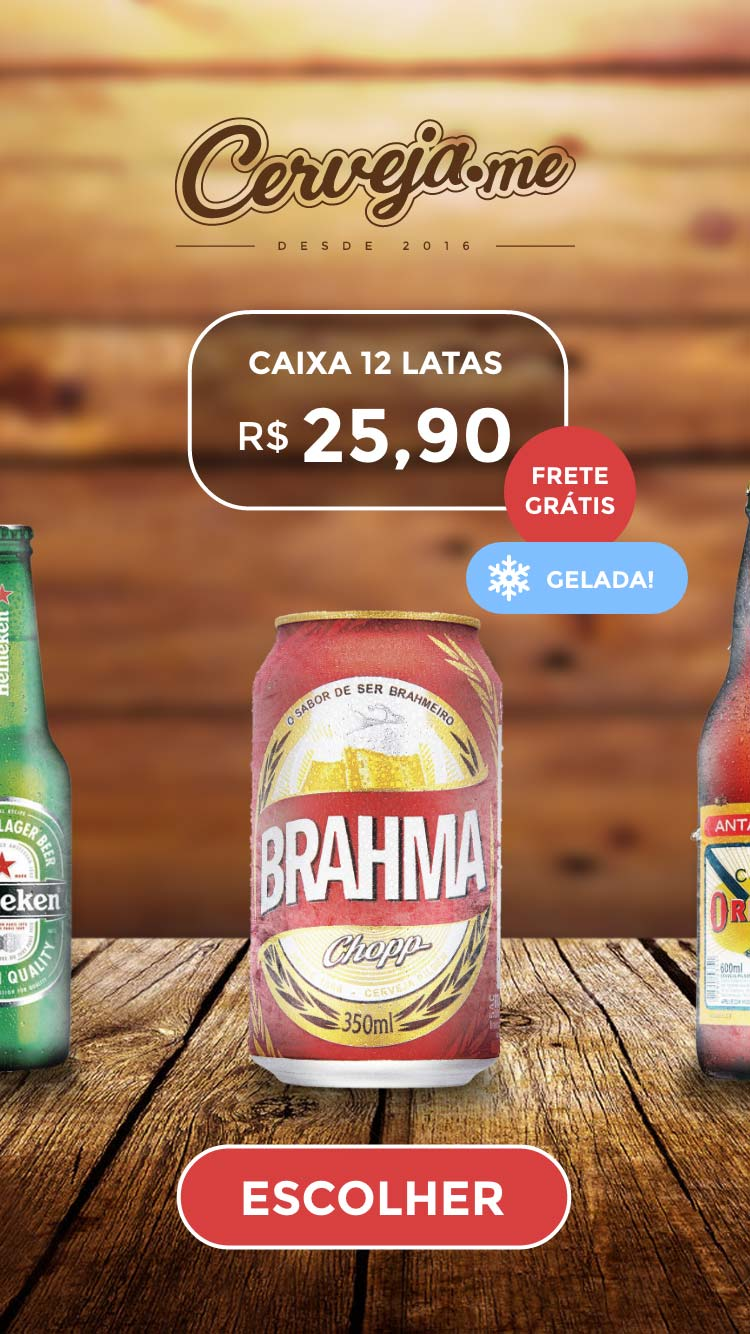
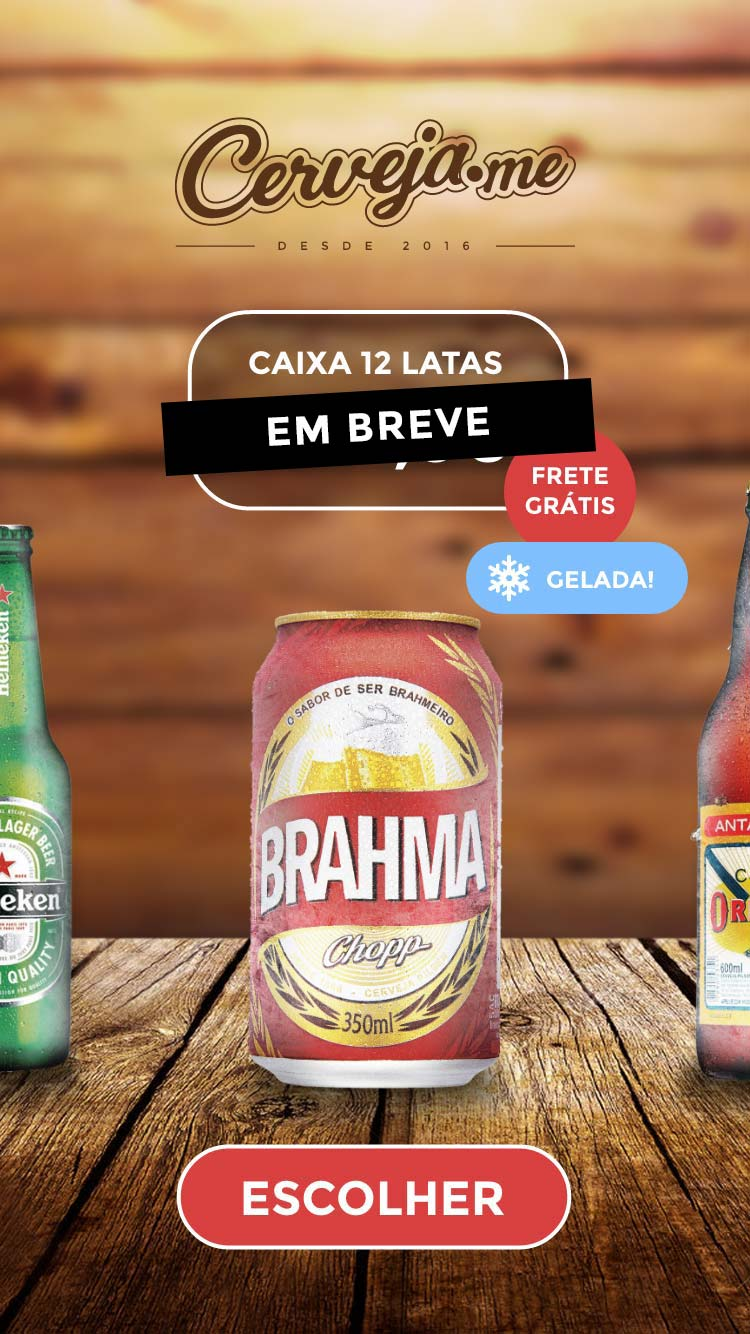
em breve

Changed region(s): [[0.2147, 0.2766, 0.7973, 0.3688]]

diff --git a/index.html b/index.html
@@ -19,7 +19,7 @@
 <body class="bkg">
     <span class="logo"></span>
     <h1 class="index-title">
-        CHEGAMOS EM <big>CAMPO GRANDE, MS</big>
+        ESTAMOS CHEGANDO EM <big>CAMPO GRANDE, MS</big>
     </h1>
 
     <div class="mobile">
@@ -32,8 +32,8 @@
         Cerveja GELADA na sua casa por </br>um preço acessível. </br></br>
         <strong>É só pedir pelo aplicativo.</strong>
          
-        <button class="btn-action"><span class="icon-android"></span>Google Play</button>
-        <button class="btn-action"><span class="icon-apple"></span>App Store</button>
+        <button class="btn-action"><span class="icon-android"></span>EM BREVE</button>
+        <button class="btn-action"><span class="icon-apple"></span>EM BREVE</button>
     </p>
   
 </body>
